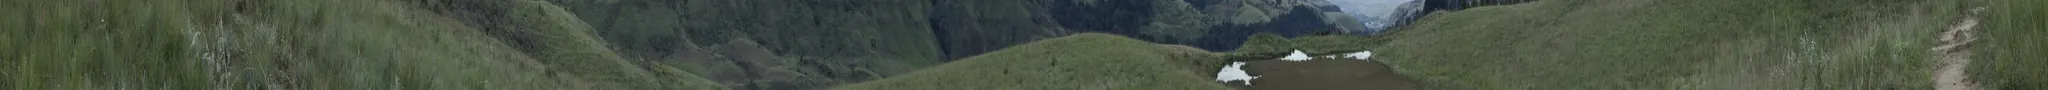
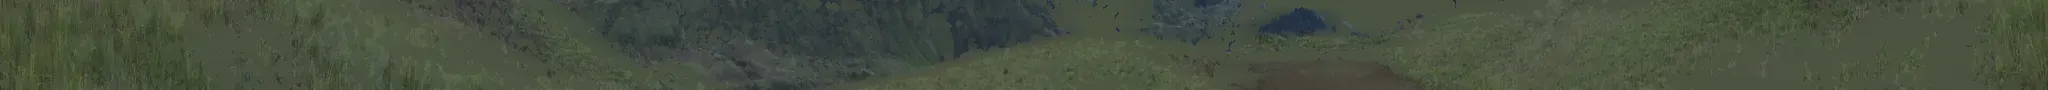
雪国线 window, checked frame by frame: the Alps panorama is dropped (its road bends across the field and reads as a pasted photo); the field is smeared flat by speed with its snow patches and path painted out; the cartoon poplars are gone — only poles and wires go by close to the glass.
Claude-Session: https://claude.ai/code/session_01ScX6WKwjvGxQ2unMJchHBc

diff --git a/carview.js b/carview.js
@@ -6,7 +6,7 @@
 (() => {
   const car = document.getElementById("car");
   if (!car) return;
-  const PANOS = ["alps_field", "champagne_castle_1"];
+  const PANOS = ["champagne_castle_1"];   // alps_field dropped: the road near the camera bends across the field (equirect), it reads as a photo
   const P = PANOS[new Date().getDate() % PANOS.length];
 
   const css = `
@@ -67,7 +67,10 @@
     far = a; ready = !!a; if (!b) return;
     // the field strip, its top edge feathered so it melts into the land under the mountains
     const c = document.createElement("canvas"); c.width = b.width; c.height = b.height * 2; const x = c.getContext("2d");
-    x.drawImage(b, 0, 0, b.width, c.height); x.globalCompositeOperation = "destination-in";
+    x.filter = "blur(26px) saturate(.85)";                       // what a field looks like at speed: streaks, no shapes
+    for (const dx of [-b.width, 0, b.width]) x.drawImage(b, dx, 0, b.width, c.height);
+    x.filter = "none"; x.globalAlpha = .35; x.drawImage(b, 0, 0, b.width, c.height); x.globalAlpha = 1;   // a little grass texture left in
+    x.globalCompositeOperation = "destination-in";
     const gr = x.createLinearGradient(0, 0, 0, c.height); gr.addColorStop(0, "rgba(0,0,0,0)"); gr.addColorStop(.28, "#000"); x.fillStyle = gr; x.fillRect(0, 0, c.width, c.height);
     ground = c; });
 
@@ -106,11 +109,10 @@
       g.restore();
       const sh = g.createLinearGradient(0, horizon, 0, H); sh.addColorStop(0, "rgba(40,48,44,0)"); sh.addColorStop(1, "rgba(28,32,30,.45)"); g.fillStyle = sh; g.fillRect(0, horizon, W, H - horizon);
     }
-    // near: poplars (mid distance) and poles with their wires (close), blurred by the speed
+    // near: poles with their wires, close to the glass, blurred by the speed
     const blur = Math.min(4, vel * 3) * k;
     g.save(); g.filter = blur > .5 ? `blur(${blur.toFixed(1)}px)` : "none";
     const tx = (run * 300 * k) % (LOOP * k);
-    for (const t of trees) { let x = t.x * k - tx; if (x < -60 * k) x += LOOP * k; if (x > W + 60 * k) continue; poplar(x, horizon + 6 * k, H * t.h, t.w * k, t.s > .5 ? "#1d2421" : "#232a26"); }
     const px = (run * 900 * k) % (LOOP * k), top = H * .2;
     g.strokeStyle = "rgba(30, 32, 32, .8)"; g.lineWidth = Math.max(1, 1.2 * k);
     const ps = poles.map(p => { let x = p * k - px; if (x < -900 * k) x += LOOP * k; return x; }).sort((a, b) => a - b);

diff --git a/focus.html b/focus.html
@@ -768,6 +768,6 @@
 })();
 </script>
 <!-- the carriage: the reference window with the footage playing through its glass -->
-<script src="carview.js?v=2"></script>
+<script src="carview.js?v=3"></script>
 </body>
 </html>

diff --git a/NOTICE.md b/NOTICE.md
@@ -32,5 +32,5 @@ On the table in the ride still: **"PC DELL G5 5590" by CONTxE** (<https://sketch
 
 - Fusion Pixel Font 12px Proportional SC by TakWolf — SIL Open Font License 1.1 (assets/fonts/fusion-pixel-12-sc.woff2, subset to GB2312 + ASCII). Used for the words on the 雪国线 ride.
 
-The view from the 雪国线 window (`carview.js`, `assets/train/`): Poly Haven HDRIs "Alps Field" and "Champagne Castle 1" (CC0),
+The view from the 雪国线 window (`carview.js`, `assets/train/`): Poly Haven HDRI "Champagne Castle 1" (CC0),
 the horizon band cut from the tonemapped panoramas, toned cooler and quieter. Poles, wires and poplars are drawn in code.
